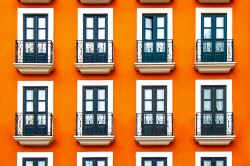
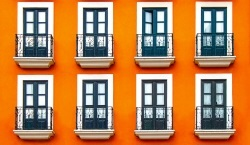
a

diff --git a/ch03/10_CSS_background.html b/ch03/10_CSS_background.html
@@ -6,7 +6,28 @@
 	<title>김태희</title>
 </head>
 
-<body>
+<!-- <body style="background-image: url('../image/back/window.jpg');"> -->
+
+
+<!-- 배경 유지 -->
+<!-- <body style="background-image: url('../image/window.jpg'); background-size:cover;"> -->
+
+
+<!-- 픽셀단위 조정 -->
+<!-- <body style="background-image: url('../image/window.jpg'); background-size:10px, 100px;"> -->
+
+
+<!-- 비율 조정 -->
+<!-- <body style="background-image: url('../image/window.jpg'); background-size:50%;"> -->
+
+<!-- 작은원본 -->
+<body style="background-image: url('../image/back/window.jpg'); background-repeat:no-repeat;">
+<!-- <body style="background-image: url('../image/back/window.jpg'); background-repeat:repeat-x;"> -->
+<!-- <body style="background-image: url('../image/back/window.jpg'); background-repeat:repeat-y;"> -->
+
+
+
+	<h4>창문사진</h4>
 
 </body>
 </html>
